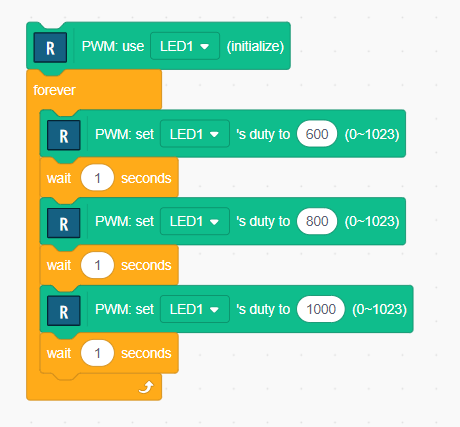
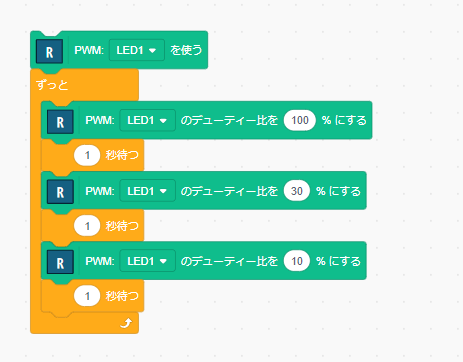
Update 朝倉高校 演習

Changed region(s): [[0.0304, 0.0304, 0.913, 0.942]]

diff --git a/202410_AsakuraHighSchool/3rd_pwm.md b/202410_AsakuraHighSchool/3rd_pwm.md
@@ -1,0 +1,66 @@
+# PWM
+
+LEDの明るさを変化させてみます。
+
+ほとんどすべてのマイコンは、GPIOの機能を持っています。しかし、GPIOで制御できるのは、0または1の値です。つまり、LEDを消灯する(0)またはLEDを点灯する(1)の2つの状態を扱えます。
+
+LEDの明るさを変えるには、PWM(Pulse Width Modulation)と呼ばれる手法を使います。
+
+## PWMの原理
+
+PWMでは、0と1を高速に切り替えることで、疑似的に明るさを表現します。
+
+図のように、周期的にHIGHとLOWを切り替えます。このとき、周期は一定ですが、その中のHIGHとLOWの比率を変えることができます。この比率のことを`デューティ比(Duty Ratio)`と呼びます。
+
+![](./images/pwm.png)
+
+## PWMのプログラム
+
+RBoardマイコン用のPWMは、拡張機能の `RBoard` のものを使います。「マイコン(汎用)」にもPWMがありますので間違えないように注意してください。
+
+以下のようなプログラムを作成します。
+
+![alt text](./images/pwm_program.png)
+
+このプログラムを動かすと、明るさが3段階に変わることを確認できます。
+
+## プログラムコード
+
+これまで作成してきたプログラムは、プログラム言語Rubyに変換されて実行されています。このことは、プログラム作成の画面で「ルビー」を選択することで確認できます。
+
+![alt text](./images/pwm_ruby.png)
+
+最初の `PWM.new( ... )` の箇所で、PWMを使用する設定をしています。ここで指定している `0` は、GPIOのピン0 を意味します。また、frequency は、PWMの周期の周波数を意味します。
+
+設定されたPWMは、pwm0という名前で利用できるようになっていて、これ以降、pwm0 のデューティ比を設定して、LEDの明るさを変化させています。
+
+# 練習
+
+- LEDの回路を作成して、PWMを使ってLEDの明るさを変化させてみてください。
+
+
+## 参考
+
+以下のようなプログラムを作ると、明るさをスムーズに変化させることができます。
+
+![](./images/pwm_program02.png)
+
+```Ruby
+pwm0 = PWM.new( 0, frequency:440 )
+loop do
+  $var1 = 0
+  until $var1 == 10
+    pwm0.duty( ( $var1 % 101 ).to_i )
+    $var1 += 1
+    sleep(0.5)
+  end
+end
+```
+
+
+<hr/>
+
+[**Move to next**](./4th_sensor.md)
+
+[**Back to top**](./README.md)
+

diff --git a/202410_AsakuraHighSchool/4th_sensor.md b/202410_AsakuraHighSchool/4th_sensor.md
@@ -1,0 +1,37 @@
+# センサーを使ってみる
+
+明るさセンサーを使ってみます。
+
+今回、明るさセンサとして、CdSセンサを使います。このセンサは、明るさによって抵抗値が変化する特性があります。
+
+## 明るさセンサーの使い方
+
+GPIOを使って、CdSセンサーの抵抗値を計測します。マイコンのGPIO機能は、抵抗値を計測するようには作られておらず、**電圧値を計測する**ようになっています。
+
+そこで、抵抗値を電圧値として計測できるようにする回路を作成します。この回路は、次のようになります。
+
+![](./images/curcuit_adc.drawio.png)
+
+CdSの抵抗値が変化すると、1Kの抵抗を流れる電流も変化します。オームの法則から、P20の電圧値も変化することになります。
+
+## 明るさの計測
+
+次のようなプログラムで、電圧値を計測します。プログラム中のADC1は、マイコンボードのP20に割り当てられています。
+
+![alt text](./images/adc_program.png)
+
+CdSを手で覆うなどして、明るさを変化させてみて、電圧値も変化していることを確認してください。
+
+
+# 練習
+
+- CdSを使って、明るさによってLEDの点灯・消灯をさせるプログラムを作成してみてください。
+    - 以下の「もし」という機能を使うことで、値を判定できます。
+
+![alt text](./images/if_syntax.png)
+
+
+<hr/>
+
+
+[**Back to top**](./README.md)

diff --git a/202410_AsakuraHighSchool/1st_program_details.md b/202410_AsakuraHighSchool/1st_program_details.md
@@ -44,3 +44,10 @@ LED1 の電圧を設定します。1 はLED1の電圧を、高い電圧に設定
 - 違う色のLEDを点滅させてください。
 - 2つのLEDを交互に点滅させてください。
 
+<hr/>
+
+
+[**Move to next**](./2nd_circuit.md)
+
+
+[**Back to top**](./README.md)
